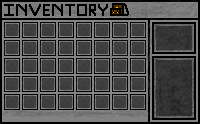
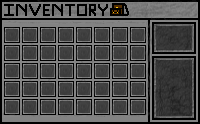
inventory functionality phase 1

diff --git a/game.py b/game.py
@@ -2,6 +2,7 @@ import pygame
 from worker import Worker
 from upgradeDefinitions import get_upgrades
 import random
+from item import Item
 
 
 class Game:
@@ -26,15 +27,25 @@ class Game:
         self.renown = 0
         self.layer = 0
         self.layers = []
+        blue_item_img = pygame.image.load('assets/blue_berry.png').convert_alpha()
+        BlueBerry = Item(blue_item_img, "Blue Berry", "A blue berry", lambda: None, lambda: None, self)
         self.accessories_inventory = []
         self.item_inventory = []
-        self.consumable_inventory = []
+        self.consumable_inventory = [BlueBerry]
         self.INVENTORY_LAYER = 1
-        self.inventory_tab = "accessories"
+        self.inventory_tab = "Accessories"
         self.inventory_unlocked = False
+        self.max_workers = 10
 
         self.upgrades = []
         self.future_upgrades, self.bought_upgrades = get_upgrades()
+
+    def get_total_levels(self, activity):
+        total = 0
+        for worker in self.workers:
+            if activity == "Gathering":
+                total += worker.gatheringLevel
+        return total
 
     def update_clicks(self, amount):
         self.value += amount
@@ -80,7 +91,7 @@ class Game:
         elif random_face == 4:
             worker_face_string = 'assets/worker_green.png'
 
-        if self.value >= cost:
+        if self.value >= cost and len(self.workers) < self.max_workers:
             self.value -= cost
             worker_img = pygame.image.load(worker_face_string).convert_alpha()
             worker = Worker(self.curr_id, worker_img, self, self.fps)
@@ -158,7 +169,7 @@ class Game:
                     self.future_upgrades.remove(upgrade)
                     self.upgrades.append(upgrade)
 
-            if self.total_value >= 7500 and self.workers_enabled is True:
+            if self.total_value >= 7500 and self.workers_enabled is True and self.get_total_levels("Gathering") >= 5:
                 if upgrade.name == "Berry Baskets":
                     self.future_upgrades.remove(upgrade)
                     self.upgrades.append(upgrade)

diff --git a/inventoryUI.py b/inventoryUI.py
@@ -9,15 +9,40 @@ class InventoryUI:
         self.offset = (x, y)
         self.game = game
         inventory_base_img = pygame.image.load('assets/inventory.png').convert_alpha()
-        self.inventoryBase = UIElement(x, y, inventory_base_img, 8.0)
+        self.inventoryBase = UIElement(x, y, inventory_base_img, 8.15)
 
     def draw(self, surface, layer):
         offset_x = 0
-        offset_y = 50
+        offset_y = 0
 
         self.inventoryBase.draw(surface)
-
+        font = pygame.font.SysFont(None, 48)
+        tab_text = font.render(self.game.inventory_tab, True, (0, 0, 0))
+        surface.blit(tab_text, (self.offset[0] - 785, self.offset[1] - 330))
         x_img = pygame.image.load('assets/x.png').convert_alpha()
         exitButton = Button(self.offset[0] + 720, self.offset[1] - 415, x_img, 2.0,
                             lambda: self.game.exit_layer(), None, 1)
+
+        curr_inventory = []
+        if self.game.inventory_tab == "Accessories":
+            curr_inventory = self.game.accessories_inventory
+        elif self.game.inventory_tab == "Items":
+            curr_inventory = self.game.item_inventory
+        elif self.game.inventory_tab == "Consumables":
+            curr_inventory = self.game.consumable_inventory
+
+        item_in_row = 0
+        for item in curr_inventory:
+            itemButton = Button(302 + offset_x, 340 + offset_y, item.image, 6.0,
+                                lambda: None, None, 1)
+            itemButton.draw(surface, layer)
+            item_in_row += 1
+            offset_x += 146.5
+
+            if item_in_row >= 8:
+                offset_x = 0
+                item_in_row = 0
+                offset_y += 146.5
+
+
         exitButton.draw(surface, layer)

diff --git a/item.py b/item.py
@@ -1,0 +1,14 @@
+import pygame
+
+
+class Item:
+
+    pressed = False
+
+    def __init__(self, image, name, description, use_action, equip_action, game):
+        self.image = image
+        self.name = name
+        self.description = description
+        self.use_action = use_action
+        self.equip_action = equip_action
+        self.game = game
